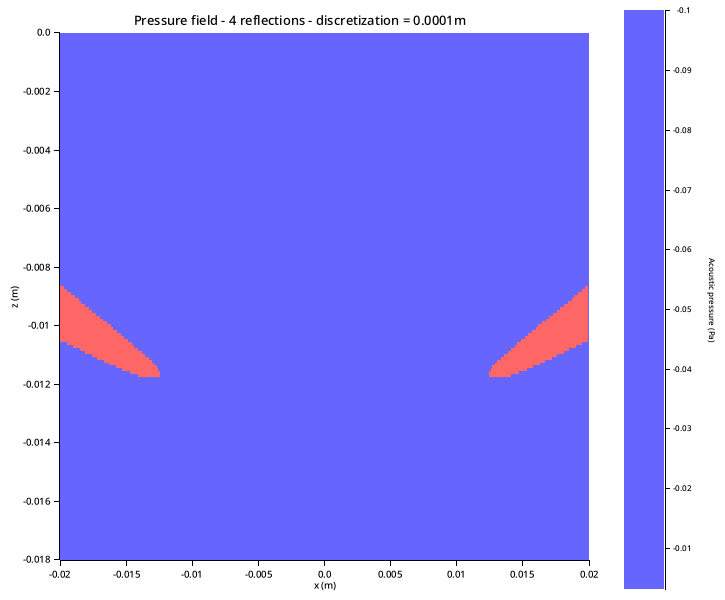
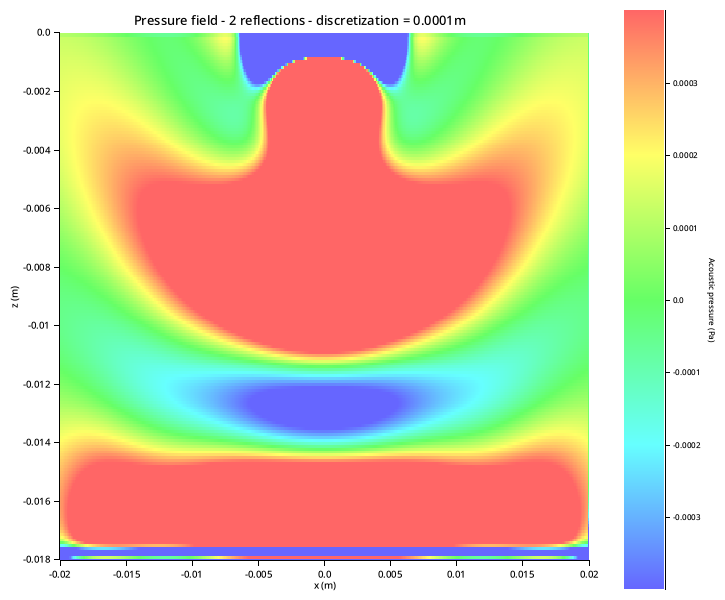
acoustic radiation potential field kinda work?

diff --git a/src/matrix_method/potential_field.rs b/src/matrix_method/potential_field.rs
@@ -47,7 +47,7 @@ pub fn velocity_field(
                         z_min + ((i + 1) as f64) * (z_max - z_min) / row as f64,
                     );
                     vf_z[[i, j]] =
-                        velocity_potential[[i + 1, j]] - velocity_potential[[i, j]] / (z2 - z1)
+                        (velocity_potential[[i + 1, j]] - velocity_potential[[i, j]]) / (z2 - z1)
                 } else if i == row - 1 {
                     // backward
                     let (z1, z2) = (
@@ -55,15 +55,15 @@ pub fn velocity_field(
                         z_min + (i as f64) * (z_max - z_min) / row as f64,
                     );
                     vf_z[[i, j]] =
-                        velocity_potential[[i, j]] - velocity_potential[[i - 1, j]] / (z2 - z1)
+                        (velocity_potential[[i, j]] - velocity_potential[[i - 1, j]]) / (z2 - z1)
                 } else {
                     // Centered
                     let (z1, z2) = (
                         z_min + ((i - 1) as f64) * (z_max - z_min) / row as f64,
                         z_min + ((i + 1) as f64) * (z_max - z_min) / row as f64,
                     );
-                    vf_z[[i, j]] = velocity_potential[[i + 1, j]]
-                        - velocity_potential[[i - 1, j]] / (2.0 * (z2 - z1))
+                    vf_z[[i, j]] = (velocity_potential[[i + 1, j]] - velocity_potential[[i - 1, j]])
+                        / (2.0 * (z2 - z1))
                 }
             }
 
@@ -76,7 +76,7 @@ pub fn velocity_field(
                         x_min + ((j + 1) as f64) * (x_max - x_min) / col as f64,
                     );
                     vf_x[[i, j]] =
-                        velocity_potential[[i, j + 1]] - velocity_potential[[i, j]] / (x2 - x1)
+                        (velocity_potential[[i, j + 1]] - velocity_potential[[i, j]]) / (x2 - x1)
                 } else if j == col - 1 {
                     // backward
                     let (x1, x2) = (
@@ -84,15 +84,15 @@ pub fn velocity_field(
                         x_min + (j as f64) * (x_max - x_min) / col as f64,
                     );
                     vf_x[[i, j]] =
-                        velocity_potential[[i, j]] - velocity_potential[[i, j - 1]] / (x2 - x1);
+                        (velocity_potential[[i, j]] - velocity_potential[[i, j - 1]]) / (x2 - x1);
                 } else {
                     // Centered
                     let (x1, x2) = (
                         x_min + ((j - 1) as f64) * (x_max - x_min) / col as f64,
                         x_min + ((j + 1) as f64) * (x_max - x_min) / col as f64,
                     );
-                    vf_x[[i, j]] = velocity_potential[[i, j + 1]]
-                        - velocity_potential[[i, j - 1]] / (2.0 * (x2 - x1))
+                    vf_x[[i, j]] = (velocity_potential[[i, j + 1]] - velocity_potential[[i, j - 1]])
+                        / (2.0 * (x2 - x1))
                 }
             }
         }
@@ -106,8 +106,8 @@ pub fn acoustic_radiation_potential(
     sp: impl Into<SimulationParameters>,
     sphere_radius: Option<f64>,
 ) -> Array2<f64> {
-    let velocity_potential = velocity_field(pressure, sp);
-    assert_eq!(pressure.shape(), velocity_potential.0.shape());
+    let vf = velocity_field(pressure, sp);
+    assert_eq!(pressure.shape(), vf.0.shape());
 
     // compute the mean square amplitude of the pressure & velocity field
     let (row, col) = match *pressure.shape() {
@@ -120,10 +120,10 @@ pub fn acoustic_radiation_potential(
         for j in 0..col {
             let (pmsa, vmsa) = (
                 pressure[[i, j]].norm_sqr(),
-                velocity_potential.0[[i, j]].norm_sqr() + velocity_potential.1[[i, j]].norm_sqr(),
+                vf.0[[i, j]].norm_sqr() + vf.1[[i, j]].norm_sqr(),
             );
             relative_acoustic_potential[[i, j]] =
-                pmsa / (3.0 * RHO.re * C.re.powi(2)) - RHO.re * vmsa / 2.0;
+                (pmsa / (3.0 * RHO.re * C.re.powi(2))) - ((RHO.re * vmsa) / 2.0);
         }
     }
 

diff --git a/src/main.rs b/src/main.rs
@@ -18,14 +18,15 @@ fn main() {
         x_max: 20.0 * MM,
         z_min: -18.0 * MM,
         z_max: 0.0 * MM,
-        nb_of_reflection: 4,
+        nb_of_reflection: 2,
         disc: 0.1 * MM,
         radius: 5.0 * MM,
         hole_radius: 0.0,
         freq: Complex::new(20_000.0, 0.0),
         u_0: 0.000001,
-        saturation: 2.0,
+        saturation: 3.0,
     };
+    // let simulation_parameters = SimulationParametersArgs::default();
 
     let pressure = pressure_field::compute_pressure_field(simulation_parameters);
     plot_pressure_field(&pressure, simulation_parameters, "./out/pressure_field.png")
@@ -40,12 +41,4 @@ fn main() {
         "./out/acoustic_field.png",
     )
     .expect("Failed to draw pf");
-
-    let (minr, maxr) = acoustic_radiation_field
-        .iter()
-        .fold((f64::INFINITY, f64::NEG_INFINITY), |(min, max), &a| {
-            (min.min(a), max.max(a))
-        });
-    println!("{:?}", (minr, maxr));
-    // println!("{acoustic_radiation_field:?}");
 }

diff --git a/src/plot.rs b/src/plot.rs
@@ -20,8 +20,24 @@ pub fn plot_pressure_field(
 
 /* UTILS */
 fn pressure_field_levels(pressure: &Array2<Complex<f64>>, saturation: f64) -> (f64, f64) {
-    let min_pressure = pressure.iter().fold(f64::INFINITY, |min, &p| min.min(p.re));
-    (min_pressure / saturation, -min_pressure / saturation)
+    let (min_pressure, max_pressure) = pressure
+        .iter()
+        .fold((f64::INFINITY, f64::NEG_INFINITY), |(min, max), &p| {
+            (min.min(p.re), max.max(p.re))
+        });
+
+    return (-0.0004, 0.0004);
+    if min_pressure.abs() >= max_pressure.abs() {
+        (
+            -max_pressure.abs() / saturation,
+            max_pressure.abs() / saturation,
+        )
+    } else {
+        (
+            -min_pressure.abs() / saturation,
+            min_pressure.abs() / saturation,
+        )
+    }
 }
 
 /* HELPERS */
